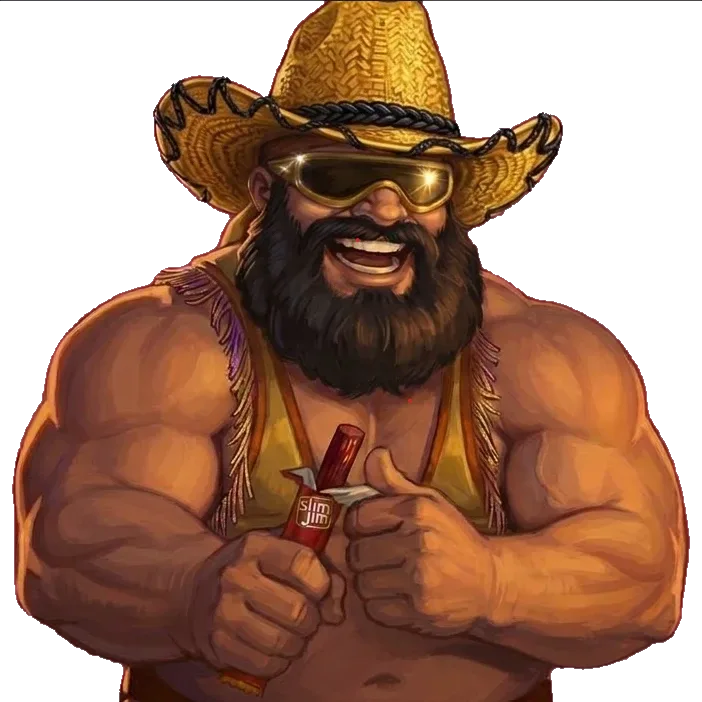
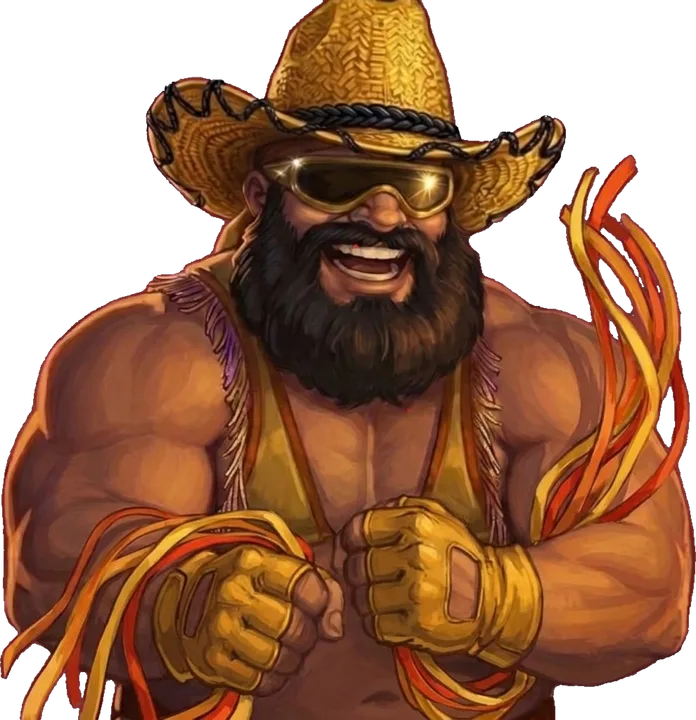
Brodor's new bust; ability paintings for six more opponents
Back of the Head, Inkfire Brand, Flourish, Written in the Stars, Reach Around and Astral
Flood each get the user's painting on a stage of their own. The art script gains a few
opt-in cut-out settings (minPiece, trails, soften, smokeMinBlue, several smoke boxes).
The old Brodor original is kept as art/bust-brodor-v1.webp.

diff --git a/client/src/Hud.tsx b/client/src/Hud.tsx
@@ -782,7 +782,14 @@ const ABILITY_ART: Record<string, string> = {
     'Mind Whip': 'ability-mind-whip.webp',
     'You are Cursed': 'ability-cursed.webp',
     'Sympathy for the Devil': 'ability-devil.webp',
-    'Disguises': 'ability-disguises.webp'
+    'Disguises': 'ability-disguises.webp',
+    // 26 Oct: the Yawning Portal's and the ship's.
+    'Back of the Head': 'ability-back-of-the-head.webp',
+    'Inkfire Brand': 'ability-inkfire.webp',
+    'Flourish': 'ability-flourish.webp',
+    'Astral Flood': 'ability-astral-flood.webp',
+    'Reach Around': 'ability-reach-around.webp',
+    'Written in the Stars': 'ability-written-in-the-stars.webp'
 };
 Object.values(ABILITY_ART).forEach(file => { new Image().src = `${import.meta.env.BASE_URL}art/${file}`; });
 

diff --git a/client/src/portraits.ts b/client/src/portraits.ts
@@ -69,7 +69,8 @@ export const PORTRAITS: Record<string, Portrait> = {
         ...seated('ridgeler.webp', [40, 30], 1.45, 748, 720, [-12.4, -6]),
         air: { glow: { at: [0.87, 0.67], color: [1, 0.93, 0.75], radius: 0.17, strength: 0.45, pulse: 0.3 } }
     },
-    Brodor: { ...seated('brodor.webp', [50, 30], 1.7, 702, 702), seat: 1.3 },
+    // His second painting (26 Oct): fists and ribbons; the head sits as in the first, so the same seat.
+    Brodor: { ...seated('brodor.webp', [52, 31], 1.7, 696, 720), seat: 1.3 },
     Devil: classic('Devil.png'),
     Vaelin: classic('vaelin.png')
 };

diff --git a/docs/art-direction.md b/docs/art-direction.md
@@ -132,7 +132,7 @@ Thom's prompt also adds *no text, no lettering*: the shop screen prints "Thom's 
 | Brass slot plates | Done | `art/slot-plates.jpg` → `plate-2/4/blank.webp` |
 | Backdrop | Done | `art/tavern-backdrop.jpg` → `tavern.webp` |
 | Backdrop: the Yawning Portal | Done (26 Oct) | `art/yawning-portal-backdrop.jpg` → `yawning-portal.webp` (1584×672), the hall with its well; the Portal's five fights and its scenes |
-| Ability paintings (Mind Whip, You are Cursed, Sympathy for the Devil, Disguises) | Done (26 Oct) | `art/ability-<id>.jpg` → `ability-<id>.webp` (900 tall, cut out); `ABILITY_ART` in `client/src/Hud.tsx`; the other abilities' paintings wanted (subjects in the prompt pack's ability table) |
+| Ability paintings (Mind Whip, You are Cursed, Sympathy for the Devil, Disguises; since 26 Oct evening also Back of the Head, Inkfire Brand, Flourish, Astral Flood, Reach Around, Written in the Stars) | Done (26 Oct) | `art/ability-<id>.jpg` → `ability-<id>.webp` (900 tall, cut out); `ABILITY_ART` in `client/src/Hud.tsx`. Back of the Head keeps its flying die (`minPiece`) and a little of its streaks (`trails`); Inkfire's black flame goes see-through at its tips (`smokeBox`, `smokeMinBlue`); Flourish's cream swirls are see-through (`trails`) with `holes` inside the loops; Astral Flood's aura fades at its edge (`soften`) with `holes` between the ribbons. Still wanted: Divine Smite, Dead Eye, the Ace of Spades, Smooth Talk, The Cloak, All In (subjects in the prompt pack's ability table) |
 | Backdrop: outside the Ghoul and Gourd | Done | `art/ghoul-gourd-outside.jpg` → `ghoul-gourd-outside.webp` (1376×768), Sperm McGrath's fight; `SCENES` in `client/src/Backdrop.tsx` |
 | Opponent busts | Done | Molar, Klarg, Rokr, Hangman, Jaguar: `art/bust-*.jpg` → `*.webp` |
 | Sperm McGrath (Ghoul and Gourd bouncer) | Done | `art/bust-mcgrath.jpg` (flat magenta, `cutOutFlat`) → `mcgrath.webp` |
@@ -141,7 +141,7 @@ Thom's prompt also adds *no text, no lettering*: the shop screen prints "Thom's 
 | Duke Morrigan | Done | `art/bust-duke.jpg` (flat magenta, `cutOutFlat` with a low `tolerance` so his purple coat and skin stay, and `holes` for the background inside his curled horn) → `duke.webp` |
 | Martha Mystery | Done | `art/bust-martha.jpg` (flat magenta, `cutOutFlat` with `smokeBox` + `smokeColour: 'own'`: her vape smoke stays purple and see-through) → `martha.webp`; `seat: 1.15` |
 | Martha's disguises | Done, 21 Oct | `art/bust-martha-frak.jpg`, `bust-martha-danhausen.jpg`, `bust-martha-duke.jpg` (flat magenta, `cutOutFlat` with `holes` seeds for the mask's eye holes and the gap under her wrist; the Duke's with `tolerance: 30` so the purple mask stays) → `martha-frak.webp`, `martha-danhausen.webp`, `martha-duke.webp`; `PORTRAITS` 'Martha as Frak' / 'Martha as Danhausen' / 'Martha as Duke Morrigan', `seat: 1.15` like her own bust |
-| Brodor | Done, 21 Oct | `art/bust-brodor.webp` (flat magenta, `cutOutFlat`, default settings) → `brodor.webp` (702 px, the painting's own size); `seat: 1.4`. The silhouette stand-in is gone |
+| Brodor | Done, 21 Oct; new painting 26 Oct | `art/bust-brodor.jpg` (fists in gold gloves and ribbons; flat raspberry, `cutOutFlat` with `holes` between the ribbons) → `brodor.webp` (696x720); `seat: 1.3`, round frame centred on [52, 31] at zoom 1.7. The first painting (with the Slim Jim) is kept as `art/bust-brodor-v1.webp` |
 | Player avatars Devil, Vaelin | Not planned for now | Still the classic game's portraits |
 | Klarg's hand (Reach Around) | Wanted, optional | A furry bugbear hand reaching down, transparent; for now the stolen die just flies off to his side of the table |
 | Keepsake pictures | Wanted, optional | One small painting per keepsake: Shield, Velvet Cushion, Trap Card, Thom's Loyalty Card, Potion Belt, Loaded Die, Martha's mask Brodor's Sunglasses. The Stranger's offer, Thom's back shelf and the strip use emoji until then (`KEEPSAKE_ICONS` in `client/src/Hud.tsx`) |

diff --git a/CLAUDE.md b/CLAUDE.md
@@ -385,8 +385,12 @@ https://claude.ai/code/artifact/62ce683b-44ba-43a1-b71b-9dbe3b33d094
   bust behind it overlapped the painting, the user's call), motes of light rising, the painting
   pushing slowly in, the banner below it (on phones on their side the painting left, the banner
   right), the 3.6 s of the banner; not when a Clear-Eye cancels it.
-  So far Mind Whip, You are Cursed, Sympathy for the Devil and Disguises (`ABILITY_ART` in Hud,
-  `art/ability-<id>.jpg`, cut out with `holes` seeds for enclosed pockets). Martha's Disguises
+  So far Mind Whip, You are Cursed, Sympathy for the Devil, Disguises, Back of the Head, Inkfire
+  Brand, Flourish, Astral Flood, Reach Around and Written in the Stars (`ABILITY_ART` in Hud,
+  `art/ability-<id>.jpg`, cut out with `holes` seeds for enclosed pockets; `cutOutFlat` also has
+  `minPiece` (keep a flying die), `trails` (see-through streaks of one colour), `soften` (a fading
+  edge) and `smokeMinBlue`). Brodor's bust is a new painting since 26 Oct (the first is
+  `art/bust-brodor-v1.webp`). Martha's Disguises
   painting shows ~1.7 s, then the trick she copies with its own painting. Check new ones with
   `node test/ability-shots.mjs <dir> only=<key>` (plays the ability for real headless, holds the
   moment, shoots it at phone sizes and checks it stays above the rail; works with the pane hidden;
